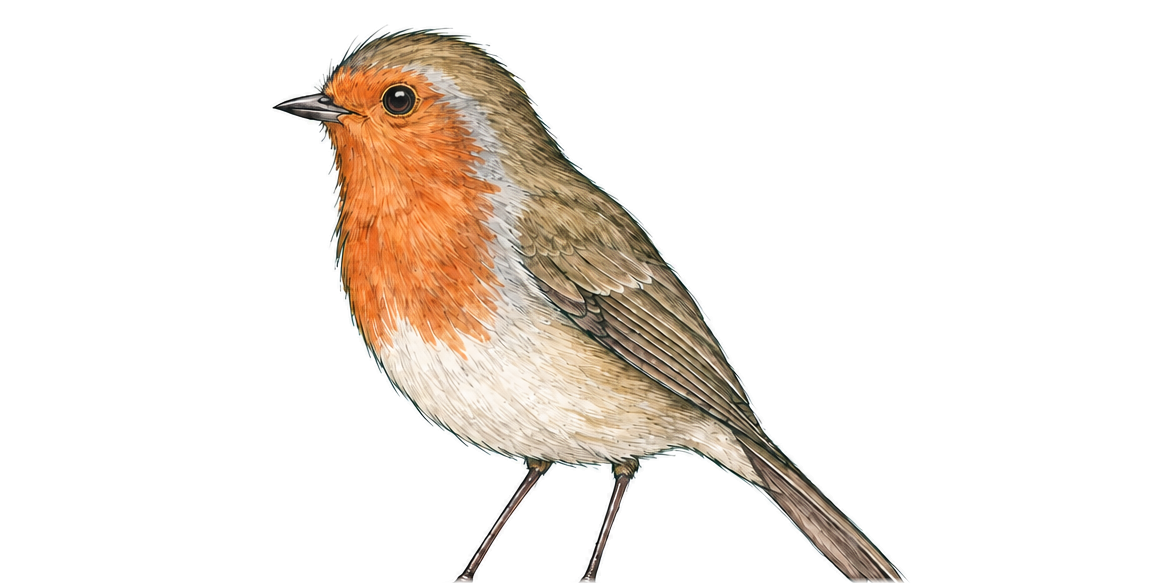
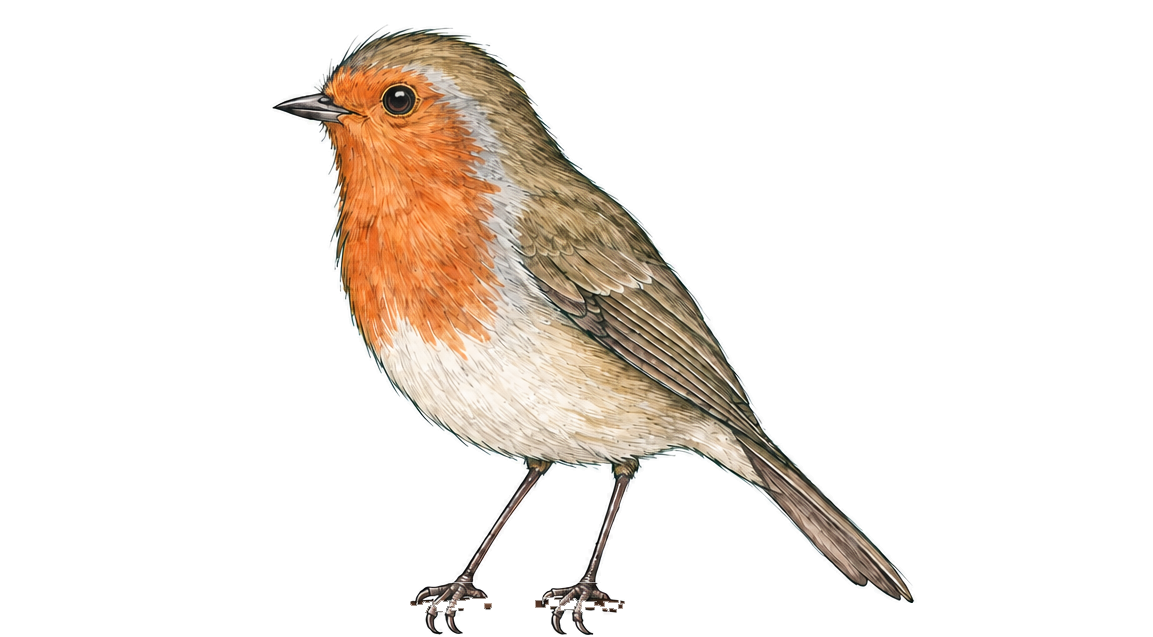
Füße zurück in die Vogel-Ebene, Vogel vor dem Ast, Bogenflug mit Flatter-/Gleitphasen, Schatten, Schwanzspitze korrigiert

Changed region(s): [[0.2186, 0.0309, 0.8118, 1.0]]

diff --git a/index.html b/index.html
@@ -46,11 +46,14 @@
   .scene img { display: block; width: 100%; height: auto; user-select: none; -webkit-user-drag: none; }
   .perch { position: absolute; inset: 0; }
   .branch { position: absolute; left: 0; top: 76.48%; width: 100%; }          /* ast.png beginnt bei Zeile 543 von 710 */
-  .bird-move { position: absolute; left: 0; top: 0; width: 100%; transform: translateY(3.43%); will-change: transform; }
-  .bird-tilt { transform-origin: 46% 62%; }
-  .bird-flap { transform-origin: 50% 58%; }
+  .shadow { position: absolute; left: 36%; top: 83%; width: 22%; height: 3.2%; border-radius: 50%; background: #3a2a1e; opacity: .14; filter: blur(6px); transform: scaleX(1); }
+  .bird-move { position: absolute; left: 0; top: 0; width: 100%; will-change: transform; }
+  .bird-tilt { transform-origin: 46% 60%; }
+  .bird-flap { transform-origin: 52% 56%; }
+  .bird-settle { transform-origin: 50% 100%; }
   .bird-breathe { transform-origin: 50% 100%; }
 
+  /* ---------- Formular ---------- */
   /* ---------- Formular ---------- */
   .contact { max-width: 560px; margin: clamp(24px, 6vh, 64px) auto 0; padding: 0 6vw clamp(40px, 8vh, 96px); }
   .contact h1 { font: 400 clamp(22px, 2.6vw, 28px)/1.25 var(--serif); color: var(--green); margin: 0 0 6px; }
@@ -115,27 +118,53 @@
   footer a { color: inherit; }
 
   /* ---------- Animation (nur mit .play; Ruhezustand = Endzustand) ---------- */
-  .play .branch img { animation: draw 1.6s cubic-bezier(.4,0,.2,1) .3s both; }
-  .play .bird-move  { animation: fly 2.7s cubic-bezier(.25,.6,.25,1) 1.5s both; }
-  .play .bird-tilt  { animation: tilt 2.7s cubic-bezier(.25,.6,.25,1) 1.5s both; }
-  .play .bird-flap  { animation: flap .17s ease-in-out 1.5s 12 alternate; }
-  .play .perch      { animation: dip .85s cubic-bezier(.3,.9,.3,1) 4.15s both; }
-  .play .bird-breathe { animation: breathe 3.6s ease-in-out 5.2s infinite alternate; }
-  .play .name       { animation: rise 1s ease-out 4.7s both; }
-  .play .contact, .play footer { animation: rise 1s ease-out 5.3s both; }
+  .play .branch img  { animation: draw 1.5s cubic-bezier(.4,0,.2,1) .3s both; }
+  .play .shadow      { animation: shadowin 3.4s linear 1.4s both; }
+  .play .bird-move   { animation: fly 3.4s linear 1.4s both; }
+  .play .bird-tilt   { animation: tilt 3.4s linear 1.4s both; }
+  .play .bird-flap   { animation: flap 3.4s linear 1.4s both; }
+  .play .bird-settle { animation: settle .55s cubic-bezier(.3,.9,.3,1) 4.8s both; }
+  .play .perch       { animation: dip .9s cubic-bezier(.3,.9,.3,1) 4.75s both; }
+  .play .bird-breathe{ animation: breathe 3.6s ease-in-out 5.6s infinite alternate; }
+  .play .name        { animation: rise 1s ease-out 5.2s both; }
+  .play .contact, .play footer { animation: rise 1s ease-out 5.8s both; }
 
-  @keyframes draw   { from { clip-path: inset(0 100% 0 0); } to { clip-path: inset(0 0 0 0); } }
+  @keyframes draw { from { clip-path: inset(0 100% 0 0); } to { clip-path: inset(0 0 0 0); } }
+
+  /* Bogenflug: schneller Anflug, Wellen (Flattern/Gleiten), Abfangen über dem Ast, Aufsetzen */
   @keyframes fly {
-    0%   { transform: translate(-70vw, -42vh) scale(.5); opacity: 0; filter: blur(2px); }
-    10%  { opacity: 1; }
-    35%  { filter: blur(0); }
-    72%  { transform: translate(-7vw, -3vh) scale(.97); }
-    90%  { transform: translate(1.1%, 4.6%) scale(1); }
-    100% { transform: translate(0, 3.43%) scale(1); opacity: 1; filter: blur(0); }
+    0%   { transform: translate(-82vw, -60vh) scale(.40); opacity: 0; filter: blur(2.5px); animation-timing-function: ease-out; }
+    5%   { opacity: 1; }
+    16%  { transform: translate(-62vw, -44vh) scale(.52); filter: blur(1.6px); animation-timing-function: ease-in-out; }
+    28%  { transform: translate(-49vw, -39vh) scale(.62); filter: blur(.8px); animation-timing-function: ease-in-out; }
+    40%  { transform: translate(-37vw, -28vh) scale(.72); filter: blur(0); animation-timing-function: ease-in-out; }
+    52%  { transform: translate(-26vw, -23vh) scale(.81); animation-timing-function: ease-in-out; }
+    64%  { transform: translate(-16vw, -13vh) scale(.90); animation-timing-function: ease-in-out; }
+    76%  { transform: translate(-7.5vw, -5vh) scale(.97); animation-timing-function: ease-out; }
+    87%  { transform: translate(-1.8vw, 1.4vh) scale(1); animation-timing-function: ease-in-out; }
+    94%  { transform: translate(-0.4%, -2.2%) scale(1); animation-timing-function: ease-in; }
+    100% { transform: translate(0, 0) scale(1); opacity: 1; filter: blur(0); }
   }
-  @keyframes tilt   { 0% { transform: rotate(-16deg); } 60% { transform: rotate(-6deg); } 88% { transform: rotate(6deg); } 100% { transform: rotate(0); } }
-  @keyframes flap   { from { transform: scaleY(1); } to { transform: scaleY(.955); } }
-  @keyframes dip    { 0% { transform: translateY(0); } 32% { transform: translateY(1%); } 66% { transform: translateY(-.3%); } 100% { transform: translateY(0); } }
+  /* Körperneigung: nach unten im Anflug, aufgerichtet zum Abfangen, dann waagerecht */
+  @keyframes tilt {
+    0%   { transform: rotate(-20deg); animation-timing-function: ease-in-out; }
+    40%  { transform: rotate(-13deg); animation-timing-function: ease-in-out; }
+    76%  { transform: rotate(-5deg);  animation-timing-function: ease-in-out; }
+    88%  { transform: rotate(10deg);  animation-timing-function: ease-in-out; }
+    95%  { transform: rotate(3deg);   animation-timing-function: ease-out; }
+    100% { transform: rotate(0); }
+  }
+  /* Flügelschläge als leichtes Pulsieren: Schlagphasen am Anfang und beim Abfangen, Gleiten dazwischen */
+  @keyframes flap {
+    0%,2.5%,5%,7.5%,10%,12.5%,15%,17.5%,20%,22.5%,25%,27.5%,30%,32.5%,35%  { transform: scaleY(1) rotate(0); }
+    1.25%,3.75%,6.25%,8.75%,11.25%,13.75%,16.25%,18.75%,21.25%,23.75%,26.25%,28.75%,31.25%,33.75% { transform: scaleY(.958) rotate(-1.2deg); }
+    36%,78% { transform: scaleY(1) rotate(0); }
+    80%,84%,88%,92% { transform: scaleY(.95) rotate(1.5deg); }
+    82%,86%,90%,94%,100% { transform: scaleY(1) rotate(0); }
+  }
+  @keyframes shadowin { 0%,80% { opacity: 0; transform: scaleX(.6); } 100% { opacity: .14; transform: scaleX(1); } }
+  @keyframes settle { 0% { transform: translateY(0); } 40% { transform: translateY(-1.6%) scaleY(1.01); } 100% { transform: none; } }
+  @keyframes dip    { 0% { transform: translateY(0); } 30% { transform: translateY(1.1%); } 62% { transform: translateY(-.35%); } 100% { transform: translateY(0); } }
   @keyframes breathe{ from { transform: scaleY(1); } to { transform: scaleY(1.012); } }
   @keyframes rise   { from { opacity: 0; transform: translateY(6px); } to { opacity: 1; transform: none; } }
 
@@ -157,10 +186,11 @@
     <h1 class="name">Robin James Lewis<small>Balingen</small></h1>
     <div class="scene" id="scene" title="Noch einmal anfliegen lassen">
       <div class="perch">
-        <div class="bird-move"><div class="bird-tilt"><div class="bird-flap"><div class="bird-breathe">
-          <img src="assets/vogel.png" alt="Ein handgezeichnetes Rotkehlchen" width="1153" height="583">
-        </div></div></div></div>
         <div class="branch"><img src="assets/ast.png" alt="" width="1153" height="167"></div>
+        <div class="shadow" aria-hidden="true"></div>
+        <div class="bird-move"><div class="bird-tilt"><div class="bird-flap"><div class="bird-settle"><div class="bird-breathe">
+          <img src="assets/vogel.png" alt="Ein handgezeichnetes Rotkehlchen" width="1153" height="637">
+        </div></div></div></div></div>
       </div>
     </div>
   </section>
